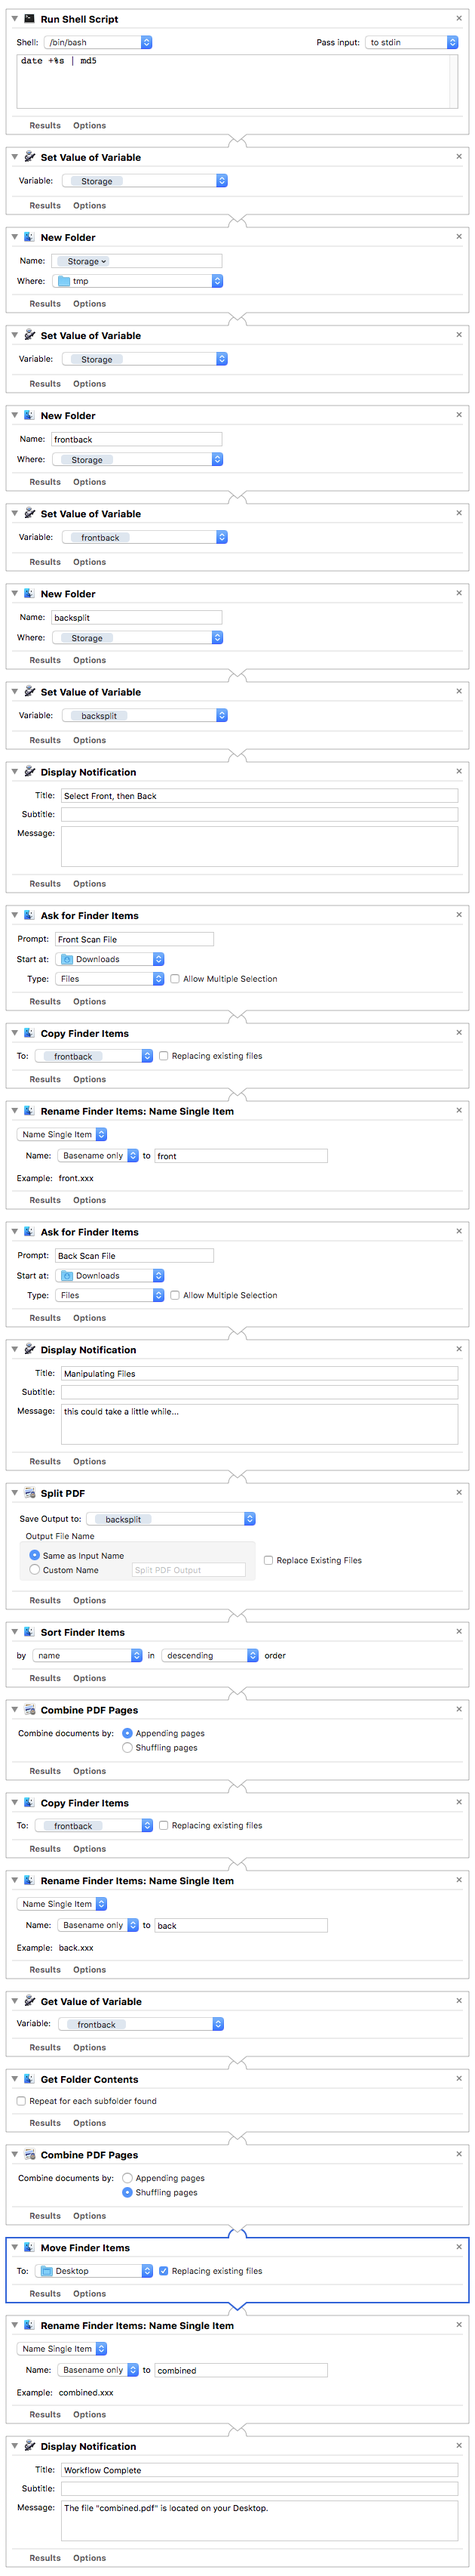
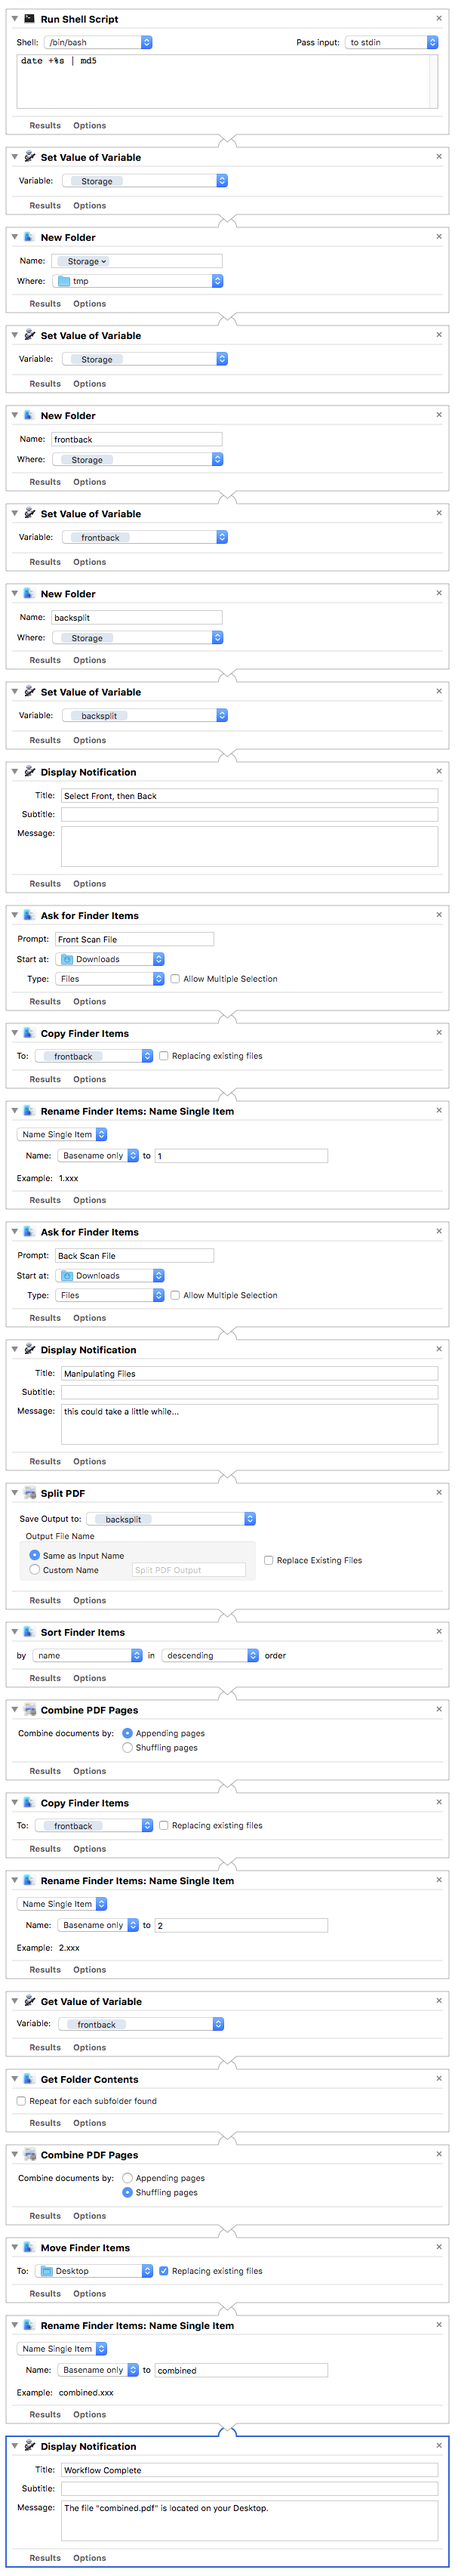
fixed front back shuffle problem

diff --git a/README.md b/README.md
@@ -1,3 +1,9 @@
 # Combine-Duplex-Scan-Automator-Workflow
 
 This Automator Workflow combines two PDF documents generated by scanning a stack of duplex-printed papers with a single-face scanner. It merely needs to know which file contains the fronts and which the backs, and then spits out a `combined.pdf` onto the Desktop.
+
+# Installation
+
+open Workflow in Automator.app, under Menu File -> Convert to... -> Service
+
+at the top of the workflow, choose `accepts no input` and `Finder.app`
